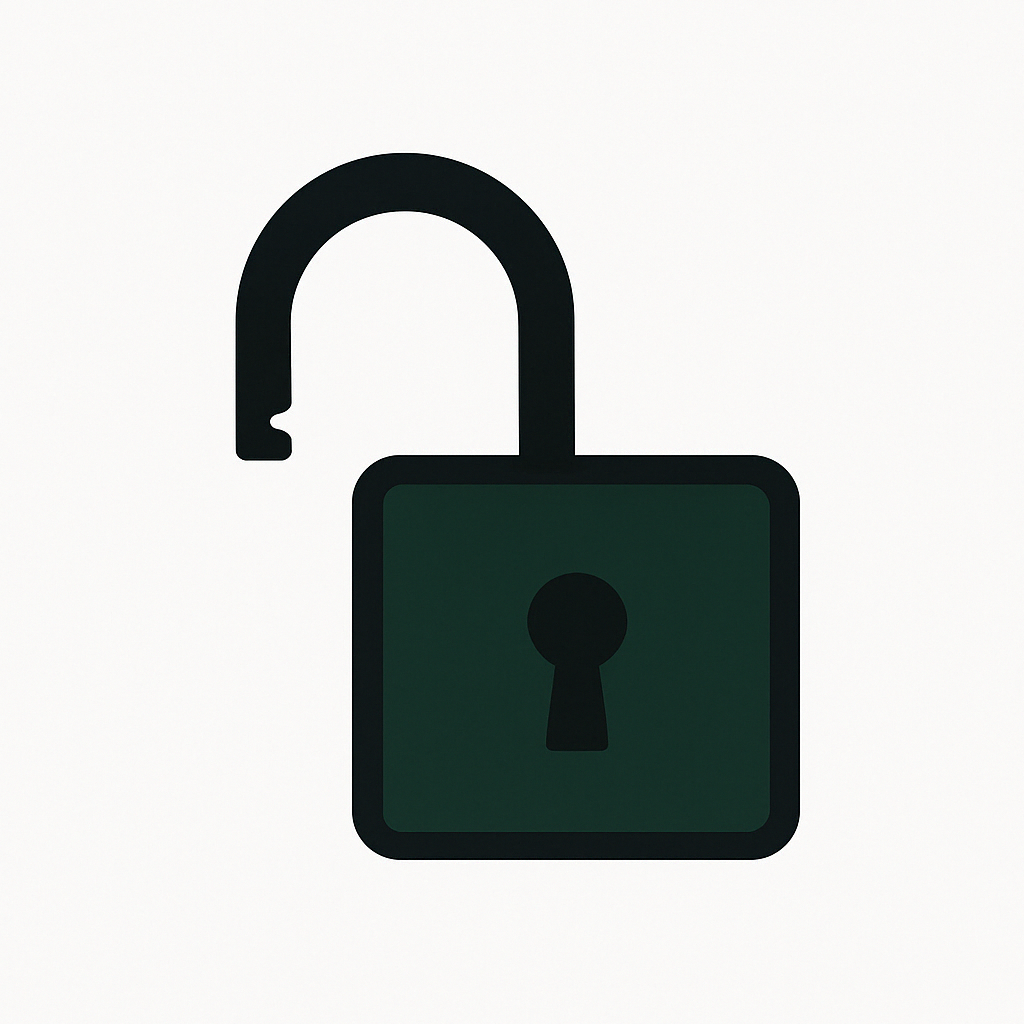
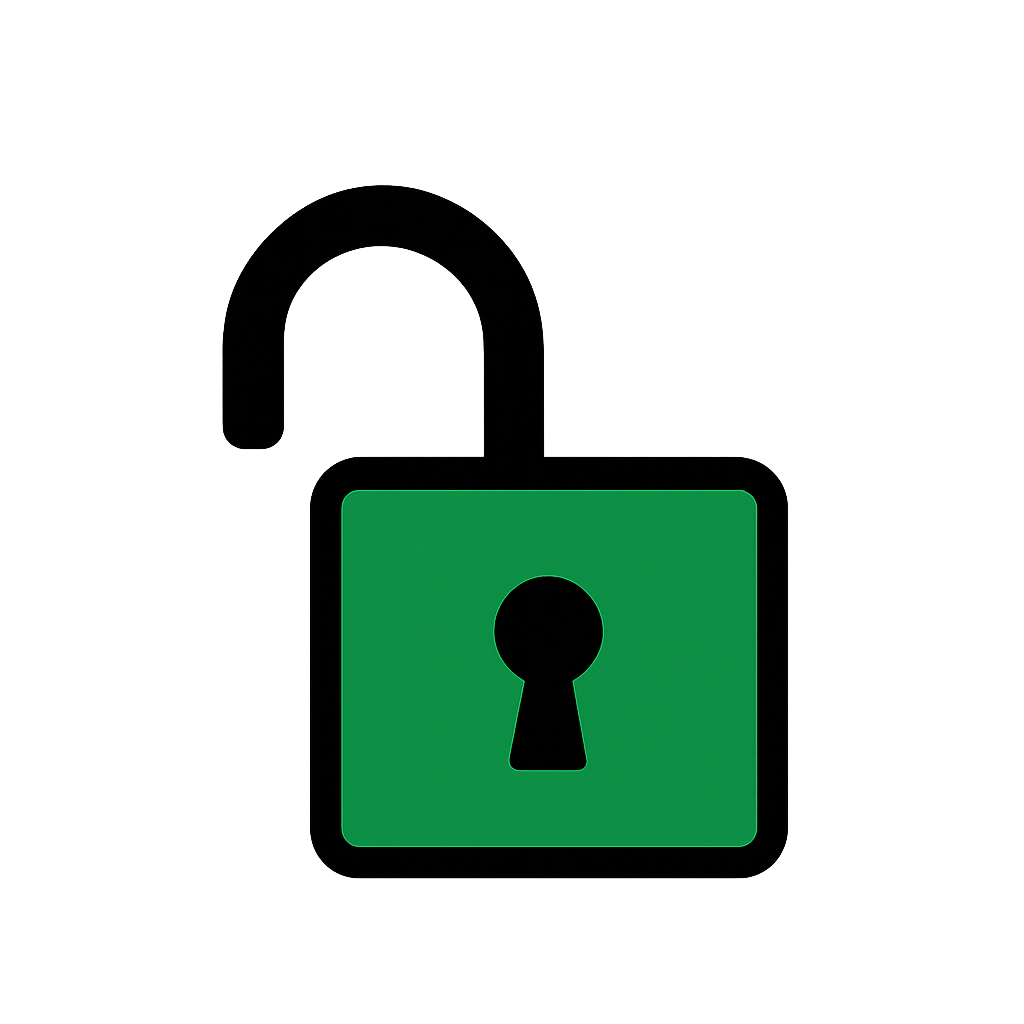
styling til forsiden

Changed region(s): [[0.25, 0.125, 0.7812, 0.875], [0.2188, 0.25, 0.3125, 0.4688]]

diff --git a/locked/lib/front_page.dart b/locked/lib/front_page.dart
@@ -26,36 +26,76 @@ class _FrontPageState extends State<FrontPage> {
                 Row(
                   crossAxisAlignment: CrossAxisAlignment.center,
                   children: [
-                    // LEFT SIDE: Title and Body Text
+                    // LEFT SIDE: Box with Title and Body Text
                     Expanded(
-                      flex: 2, // Allocate more space for the text
-                      child: Column(
-                        crossAxisAlignment: CrossAxisAlignment.start,
-                        children: [
-                          Padding(
-                            padding: const EdgeInsets.only(
-                              left: 10.0,
-                            ), // Adjust left padding
-                            child: Text(
-                              'Ugens Tema',
-                              style:
-                                  AppTextStyles
-                                      .heading, // Use custom font for heading
+                      flex: 1, // Allocate more space for the text
+                      child: Align(
+                        alignment:
+                            Alignment.centerRight, // Align the box to the right
+                        child: Container(
+                          padding: const EdgeInsets.all(
+                            16.0,
+                          ), // Inner padding for the box
+                          decoration: BoxDecoration(
+                            color:
+                                Colors.transparent, // Make the box transparent
+                            border: Border.all(
+                              color: Colors.black.withOpacity(
+                                0.4,
+                              ), // Border color with transparency
+                              width: 1.0, // Reduced border width
                             ),
+                            borderRadius: BorderRadius.circular(
+                              12,
+                            ), // Rounded corners
+                            boxShadow: [
+                              BoxShadow(
+                                color: Colors.black.withOpacity(
+                                  0.3,
+                                ), // Shadow color
+                                blurRadius: 8, // Blur radius for the shadow
+                                offset: const Offset(
+                                  0,
+                                  4,
+                                ), // Offset for the shadow
+                              ),
+                            ],
                           ),
-                          const SizedBox(height: 16),
-                          Padding(
-                            padding: const EdgeInsets.only(
-                              left: 10.0,
-                            ), // Adjust left padding
-                            child: Text(
-                              'Her kan du skrive en introduktion til ugens tema.',
-                              style:
-                                  AppTextStyles
-                                      .body, // Use custom font for body text
-                            ),
+                          constraints: const BoxConstraints(
+                            minHeight:
+                                300, // Set the minimum height for the box
                           ),
-                        ],
+                          child: Column(
+                            mainAxisAlignment:
+                                MainAxisAlignment
+                                    .center, // Center content vertically
+                            crossAxisAlignment:
+                                CrossAxisAlignment
+                                    .center, // Center content horizontally
+                            children: [
+                              Text(
+                                'Ugens Tema',
+                                style:
+                                    AppTextStyles
+                                        .heading, // Use custom font for heading
+                                textAlign:
+                                    TextAlign.center, // Center-align the text
+                              ),
+                              const SizedBox(
+                                height: 40,
+                              ), // Add more space between the heading and body text
+                              Text(
+                                'Her kan du skrive en introduktion til ugens tema.',
+                                style:
+                                    AppTextStyles
+                                        .body, // Use custom font for body text
+                                textAlign:
+                                    TextAlign
+                                        .center, // Center-align the body text
+                              ),
+                            ],
+                          ),
+                        ),
                       ),
                     ),
                     // RIGHT SIDE: Image
@@ -63,12 +103,12 @@ class _FrontPageState extends State<FrontPage> {
                       flex: 1, // Allocate space for the image
                       child: Padding(
                         padding: const EdgeInsets.only(
-                          left: 16.0,
+                          left: 150.0,
                         ), // Add spacing between text and image
                         child: Image.asset(
                           'lib/images/first_icon.png', // Path to your image in the styles folder
-                          width: 300, // Set the width of the image
-                          height: 300, // Set the height of the image
+                          width: 450, // Set the width of the image
+                          height: 450, // Set the height of the image
                           fit: BoxFit.contain, // Adjust how the image fits
                         ),
                       ),
@@ -103,6 +143,8 @@ class _FrontPageState extends State<FrontPage> {
                   shape: RoundedRectangleBorder(
                     borderRadius: BorderRadius.circular(8), // Rounded corners
                   ),
+                  shadowColor: Colors.black.withOpacity(1), // Shadow color
+                  elevation: 10, // Elevation to create the shadow
                 ),
                 child: Text(
                   'Start',

diff --git a/locked/lib/styles/colors.dart b/locked/lib/styles/colors.dart
@@ -1,9 +1,10 @@
 import 'package:flutter/material.dart';
 
 class Mycolors {
-  static const Color backgroundColor = Color.fromARGB(255, 239, 255, 232);
+  static const Color backgroundColor = Color.fromARGB(255, 227, 255, 215);
   static const Color textColor = Color(0xFF022102);
   static const Color successColor = Color(0xFF66BB6A);
   static const Color buttonColor = Color(0xFF388E3C);
   static const Color barColor = Color(0xFFA5D6A7);
+  static const Color background2Color = Color.fromARGB(200, 169, 243, 155);
 }

diff --git a/locked/lib/fonts/font.dart b/locked/lib/fonts/font.dart
@@ -6,14 +6,14 @@ class AppTextStyles {
     fontFamily: 'DM Sans',
     fontSize: 40,
     fontWeight: FontWeight.bold,
-    color: Mycolors.textColor,
+    color: Color.fromARGB(255, 255, 255, 255),
   );
 
   static const body = TextStyle(
     fontFamily: 'DM Sans',
     fontSize: 30,
     fontWeight: FontWeight.normal,
-    color: Mycolors.textColor,
+    color: Color.fromARGB(255, 255, 255, 255),
   );
 
   static const button = TextStyle(

diff --git a/locked/lib/main.dart b/locked/lib/main.dart
@@ -33,7 +33,7 @@ class AppTheme {
   static ThemeData get lightTheme {
     return ThemeData(
       primaryColor: Mycolors.successColor,
-      scaffoldBackgroundColor: Mycolors.backgroundColor,
+      scaffoldBackgroundColor: Mycolors.background2Color,
       fontFamily: 'DM Sans',
       textTheme: const TextTheme(
         titleLarge: AppTextStyles.heading,
